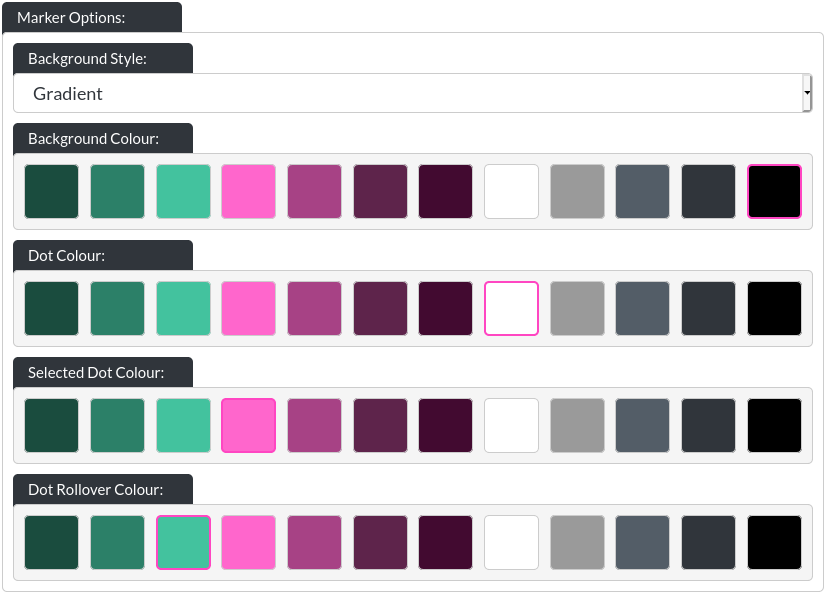
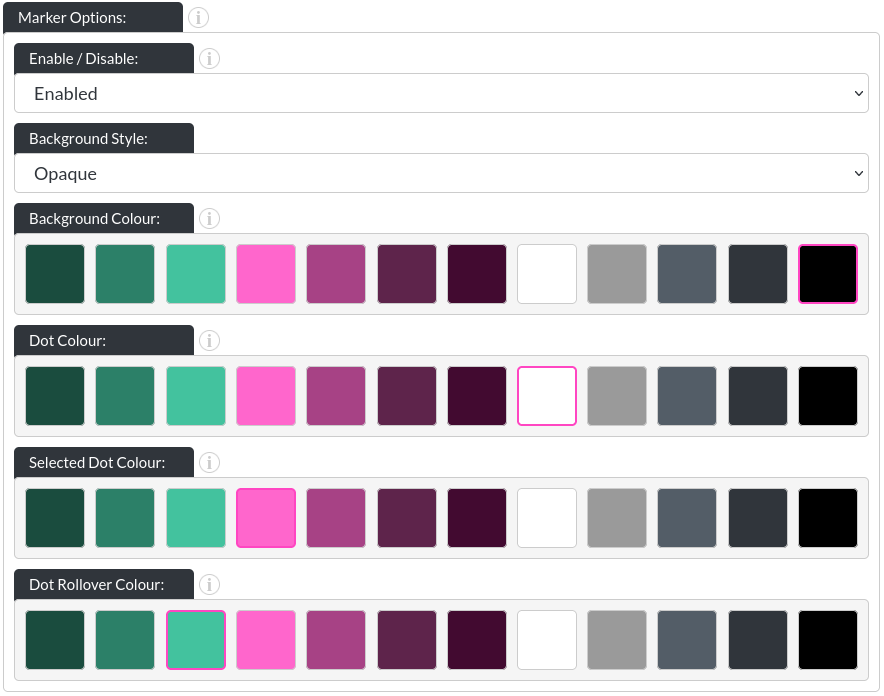
recent

diff --git a/docs/6_Modules/6_gallery.md b/docs/6_Modules/6_gallery.md
@@ -11,6 +11,10 @@ sort: 6
 
 The gallery module lets you add up to 8 images into a so-called image carousel, which can be swiped on mobile (or visitors to your site can use the provided buttons to select the images).
 
+## Grid Version
+
+There is a [grid](https://pinkpigeondocs.github.io/Pink-Pigeon-Documentation/4_General_Components/7_grids.html) variant of this module.
+
 ## Enabling / Disabling
 
 Like all modules, this module can be enabled / disabled. Please see the [corresponding section of the documentation][endis] to find out more about this functionality.
@@ -67,6 +71,8 @@ You may customise the background colour shown when using 'scale down' as an imag
 
 ![Image of the gallery module's marker options](https://raw.githubusercontent.com/pinkpigeondocs/Pink-Pigeon-Documentation/master/docs/6_Modules/images/6_gallery_marker_options.png)
 
+- **Enabled / Disabled:** You can turn off the markers entirely, if desired.
+
 - **Background Style:** There are three options for the marker backgrounds. None: ![Image of the gallery module's marker option 'transparent background'](https://raw.githubusercontent.com/pinkpigeondocs/Pink-Pigeon-Documentation/master/docs/6_Modules/images/6_gallery_markers_transparent_background.png) / opaque (with a customisable background colour): ![Image of the gallery module's marker option 'transparent background'](https://raw.githubusercontent.com/pinkpigeondocs/Pink-Pigeon-Documentation/master/docs/6_Modules/images/6_gallery_markers_opaque_background.png) and 'gradient', which you can see above.
 
 - **Dot Colour:** This allows you to change the colour of the dots in their initial state (in above images, that is white).
@@ -75,7 +81,20 @@ You may customise the background colour shown when using 'scale down' as an imag
 
 - **Dot Rollover Colour:** This is the colour of any dot that the user's mouse is hovering over.
 
+## Arrow Options
 
+![Image of the gallery module's navigation arrow options](https://raw.githubusercontent.com/pinkpigeondocs/Pink-Pigeon-Documentation/master/docs/6_Modules/images/6_gallery_arrows.png)
+
+- **Show Arrows:**
+
+You can enable or disable the arrows. Here is an example without arrows:
+
+![Image of the gallery module with disabled arrows](https://raw.githubusercontent.com/pinkpigeondocs/Pink-Pigeon-Documentation/master/docs/6_Modules/images/6_gallery_online_no_arrows.png)
+
+
+- **Arrow Colour:**
+
+![Image of the gallery module's navigation arrows online](https://raw.githubusercontent.com/pinkpigeondocs/Pink-Pigeon-Documentation/master/docs/6_Modules/images/6_gallery_online_arrows.png)
 
 ```tip
 Please do not forget to hit one of the [save](https://pinkpigeondocs.github.io/Pink-Pigeon-Documentation/4_General_Components/3_bottom_bar_modules.html#saving-changes) buttons, to make sure the changes you have made are actually saved. Why not keep a window with your [preview](https://pinkpigeondocs.github.io/Pink-Pigeon-Documentation/7_Previews/) open, to see the changes in realtime?
